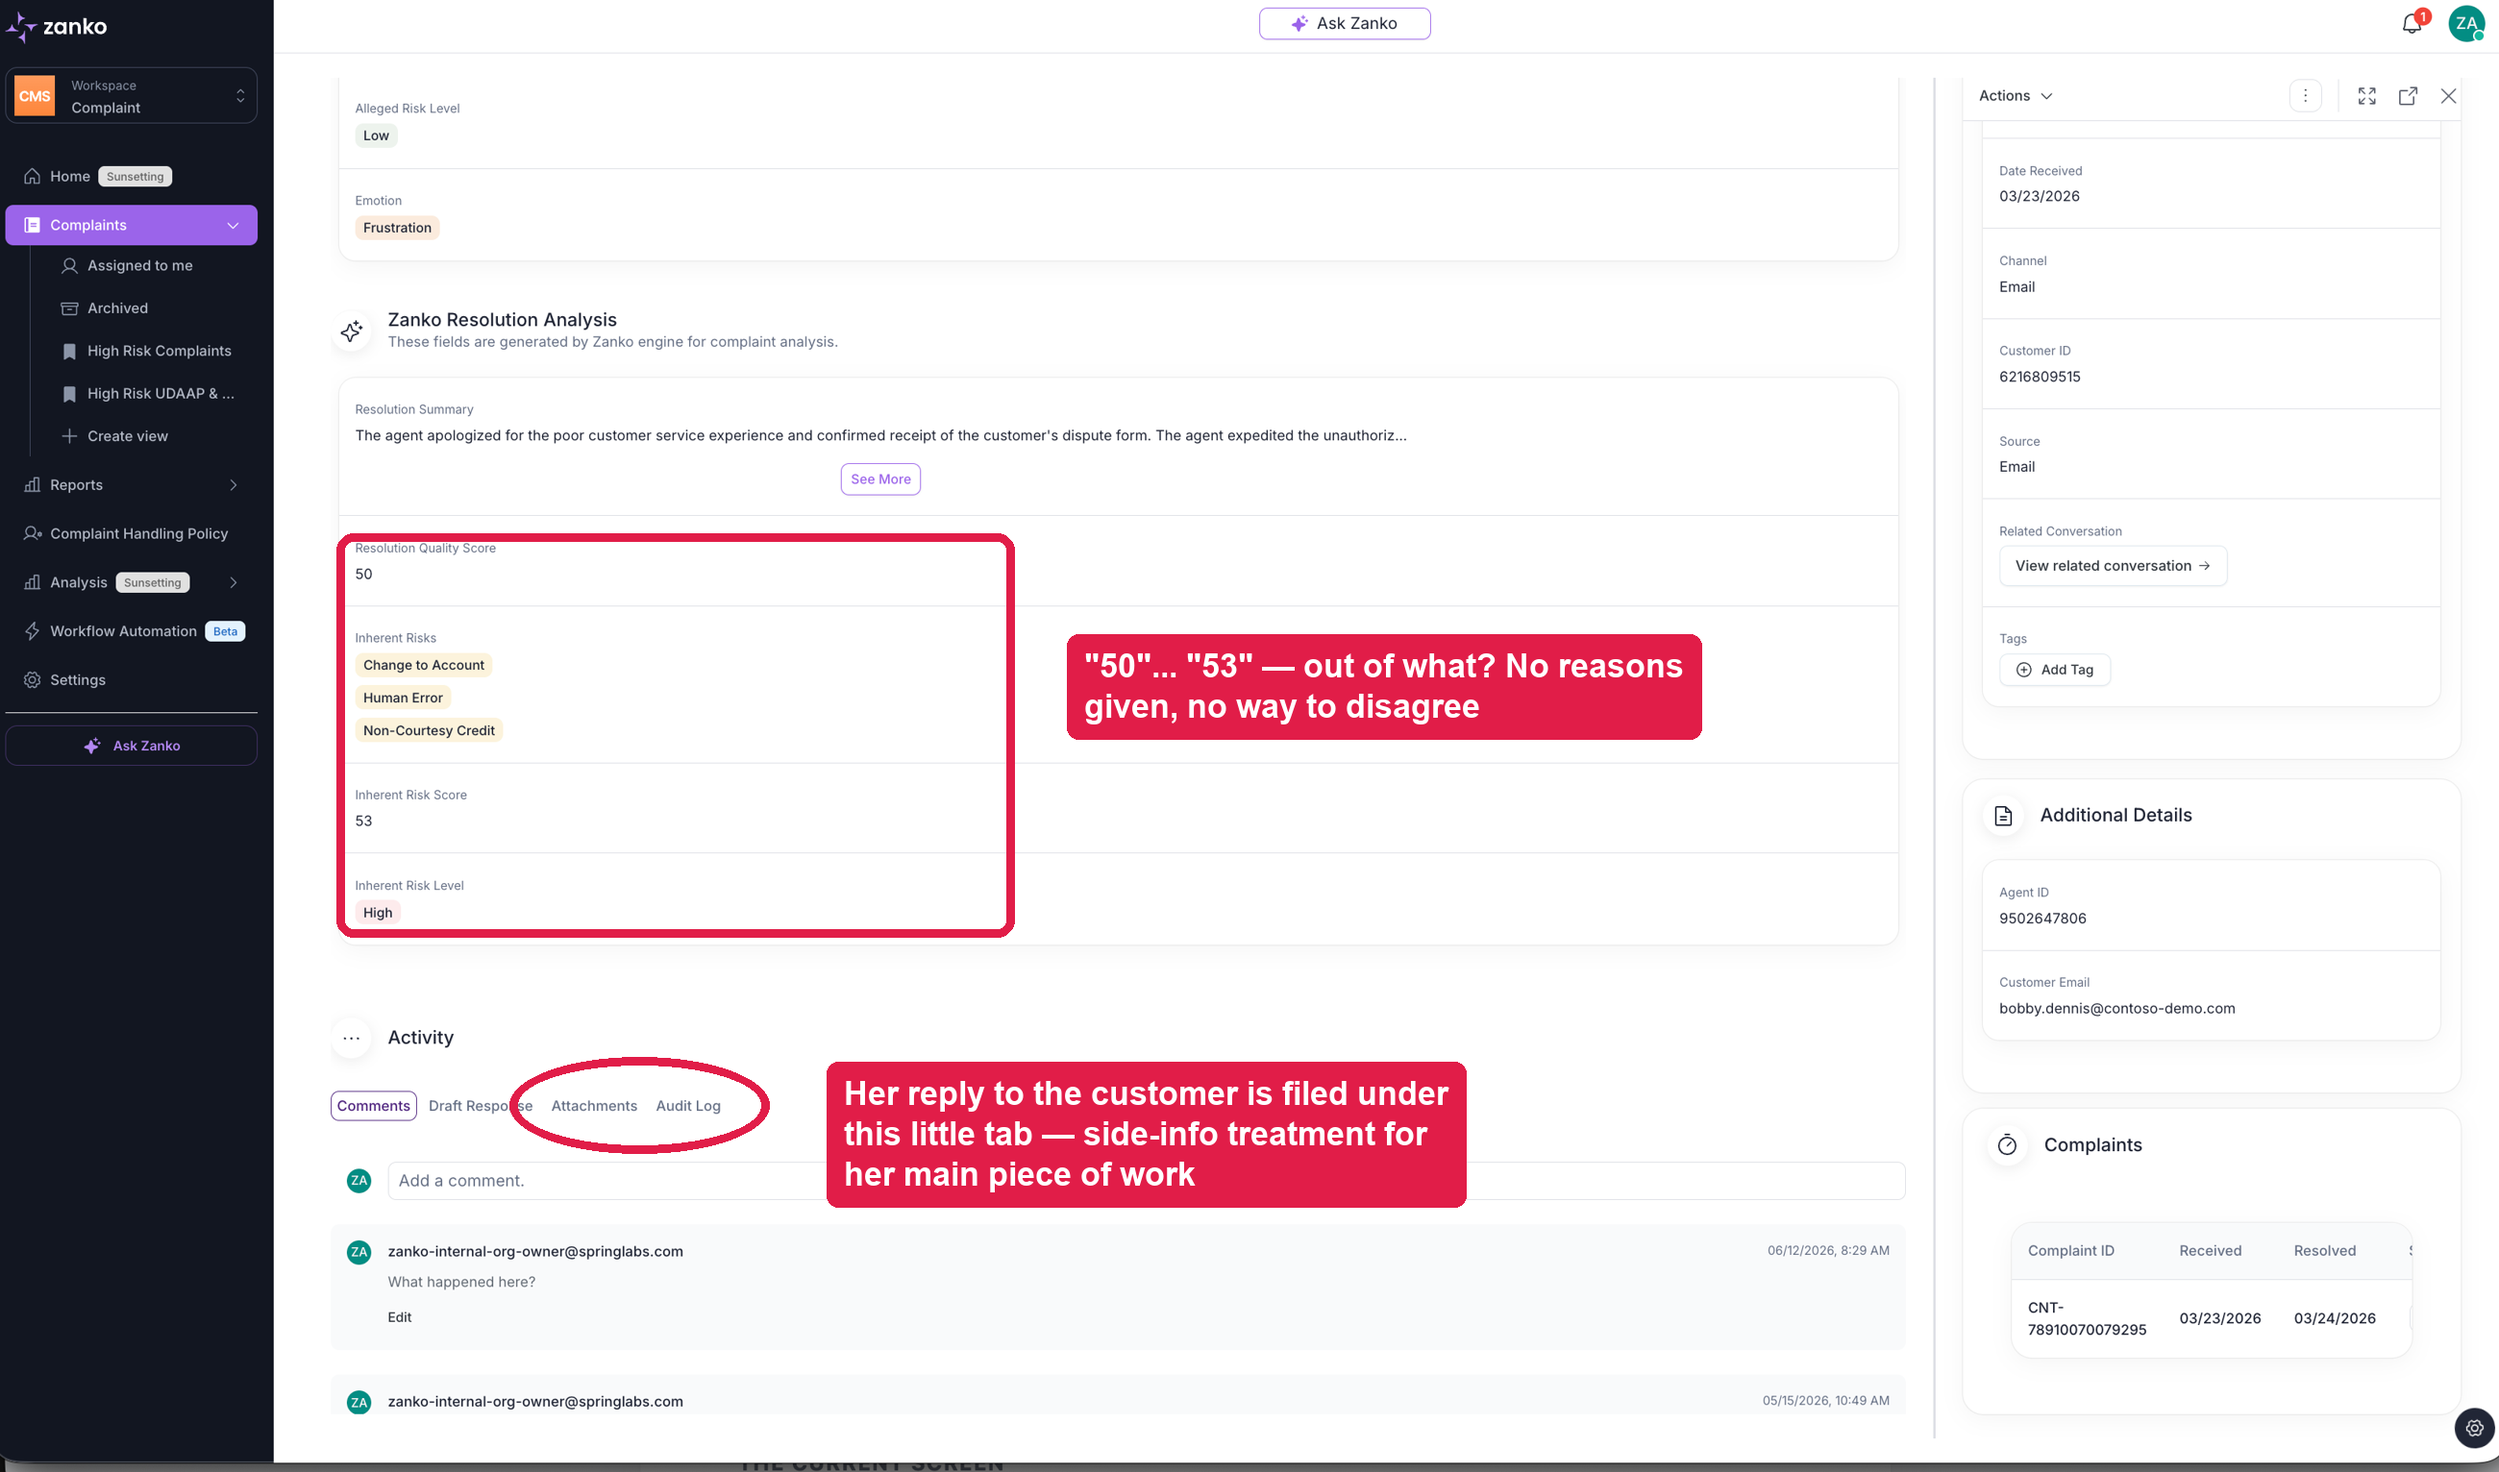
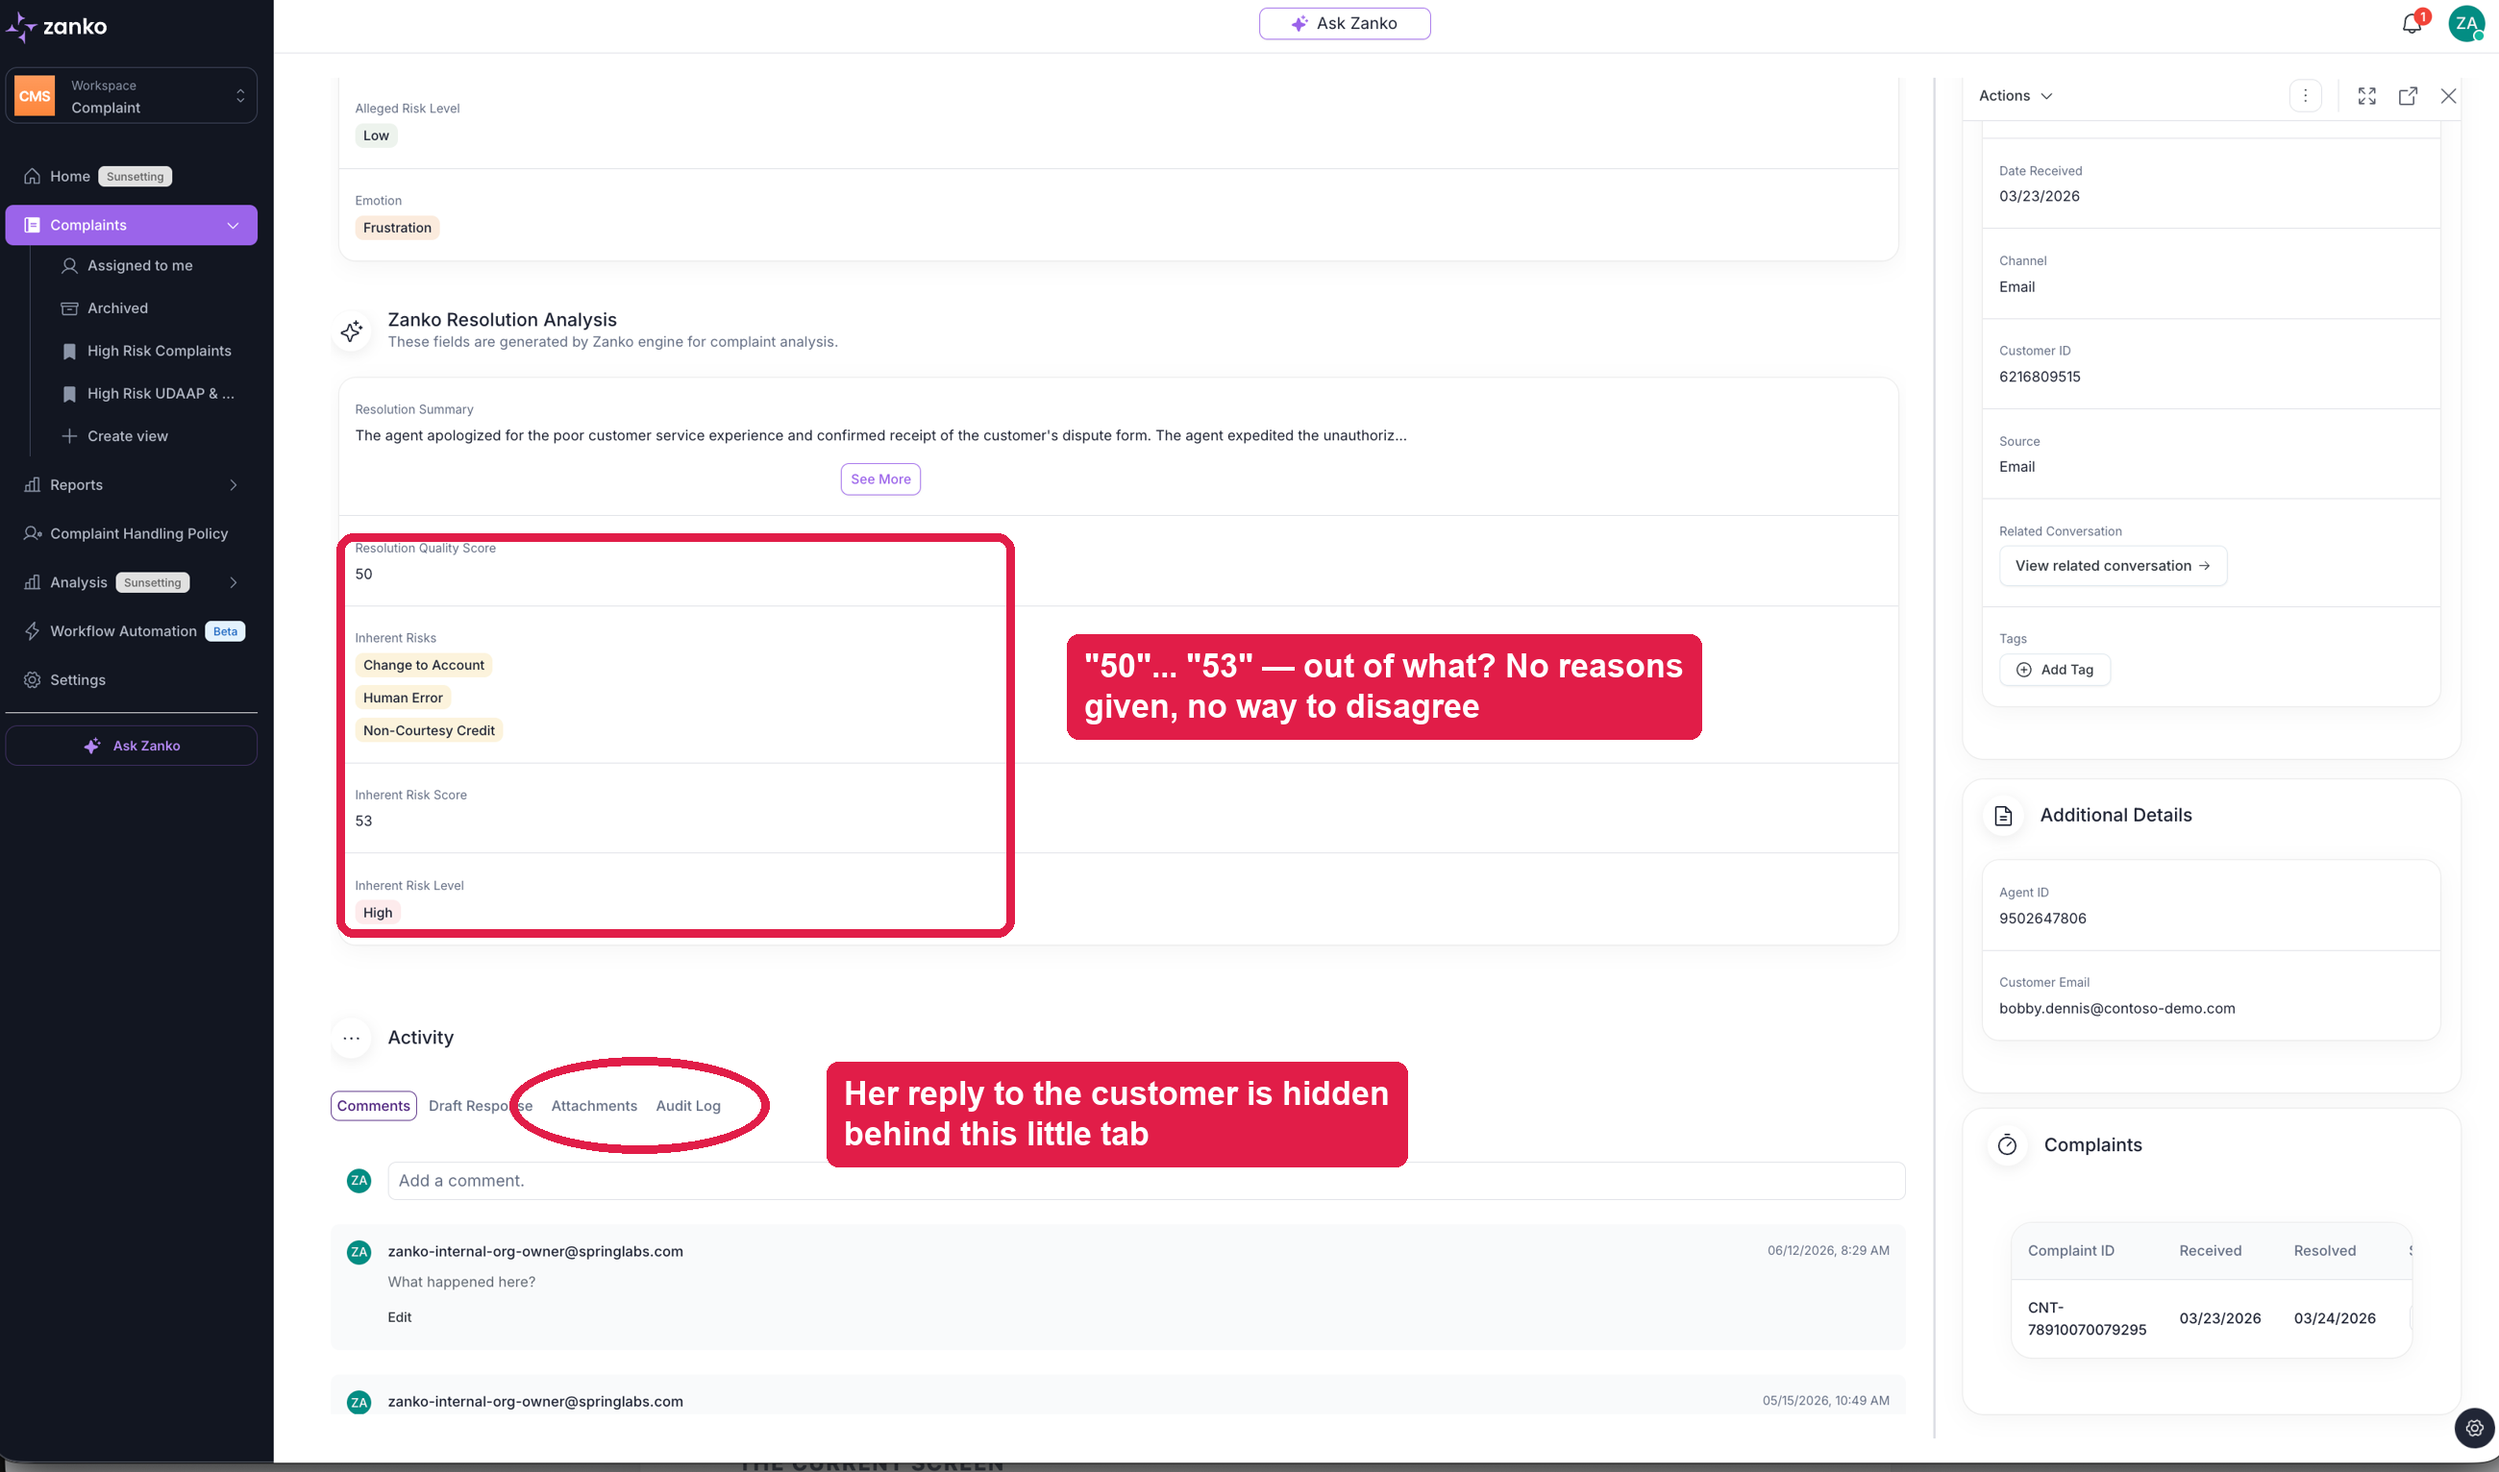
Hide empty stage workspace correctly

Changed region(s): [[0.3115, 0.7056, 0.5919, 0.8283]]

diff --git a/proto.js b/proto.js
@@ -315,10 +315,13 @@ function renderWorkspace() {
         <button class="btn-quiet">Edit draft</button>
         <button class="btn-quiet">Regenerate</button>
       </div>`;
-  } else if (stageName === "Review") {
-    body = `<p style="color:var(--muted)">Confirm the intake details and the AI's categorization
-      above, then move the case to Investigate.</p>`;
-  } else if (stageName === "Investigate") {
+  } else {
+    // Review / Investigate have no work product yet — show nothing.
+    $("#workspace").style.display = "none";
+    $("#workspace").innerHTML = "";
+    return;
+  }
+  $("#workspace").style.display = ""; else if (stageName === "Investigate") {
     body = `<p style="color:var(--muted)">Records pulled by the Zanko agent — transaction detail,
       call logs, and the customer's dispute history are attached and summarized in the timeline.
       Generate the draft response when the facts are confirmed.</p>`;
